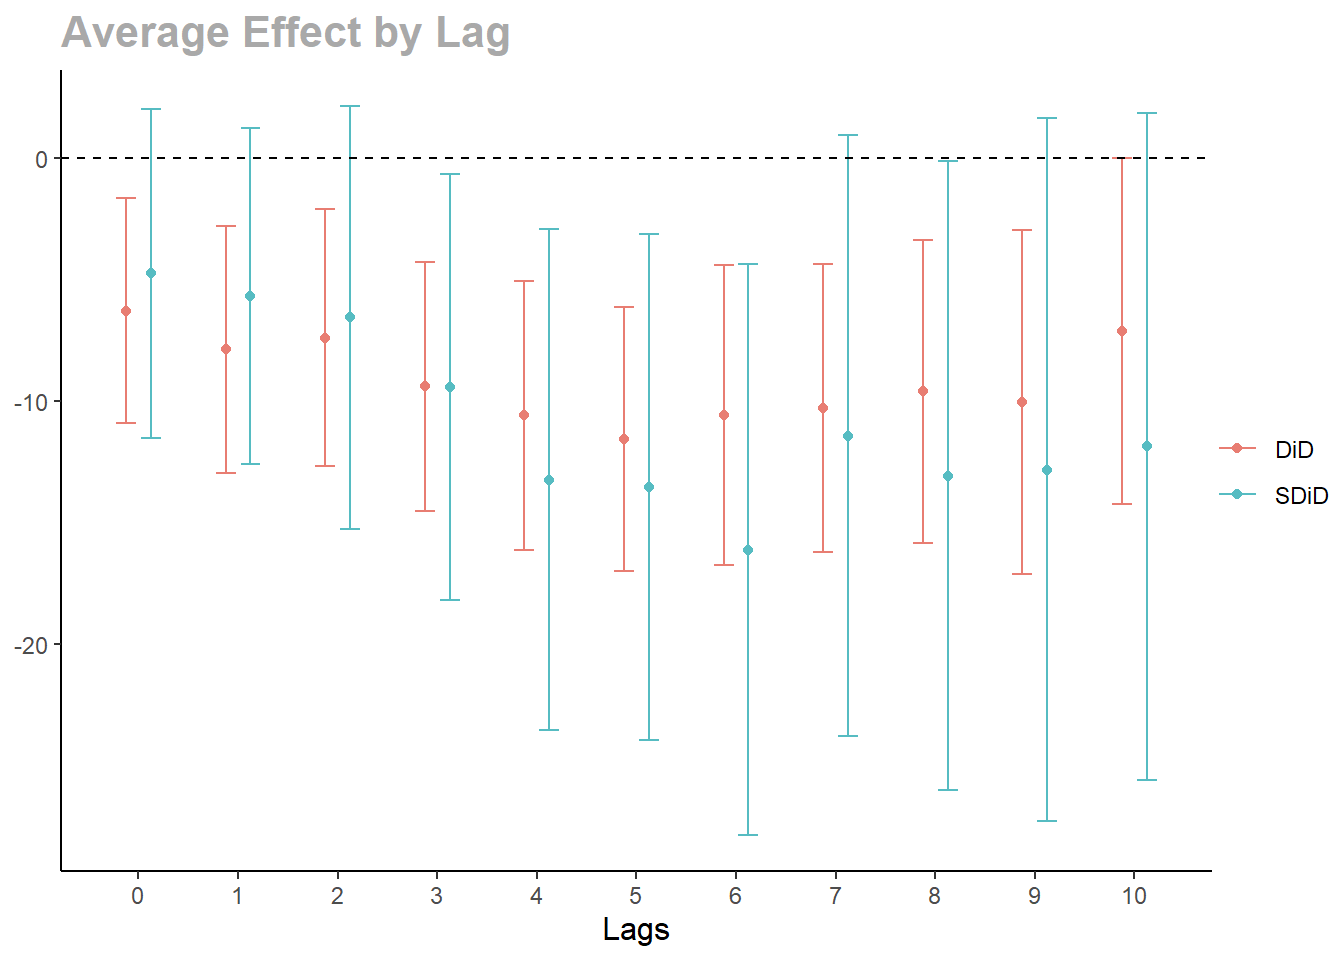
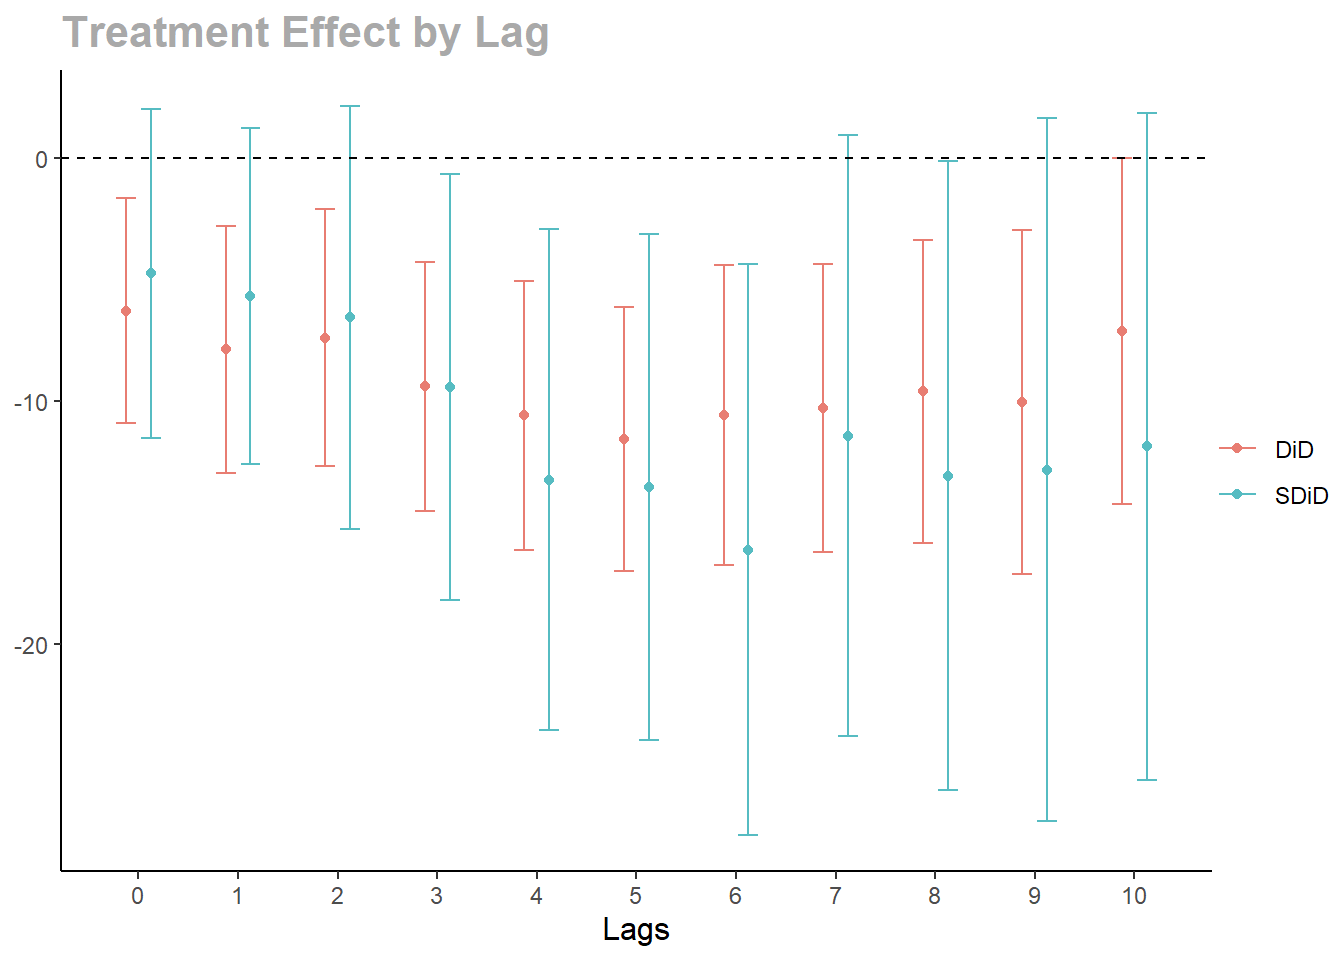
Update README and docs

Changed region(s): [[0.0312, 0.0, 0.4062, 0.0625]]

diff --git a/README.md b/README.md
@@ -4,8 +4,8 @@
 Sequential Synthetic Difference-in-Differences (sequential SDiD)
 estimator for event studies with staggered treatment adoption.
 
-This package estimates average treatment effect, particularly when the
-parallel trends assumption fails.
+This package estimates treatment effect, particularly when the parallel
+trends assumption fails.
 
 ## Installation
 
